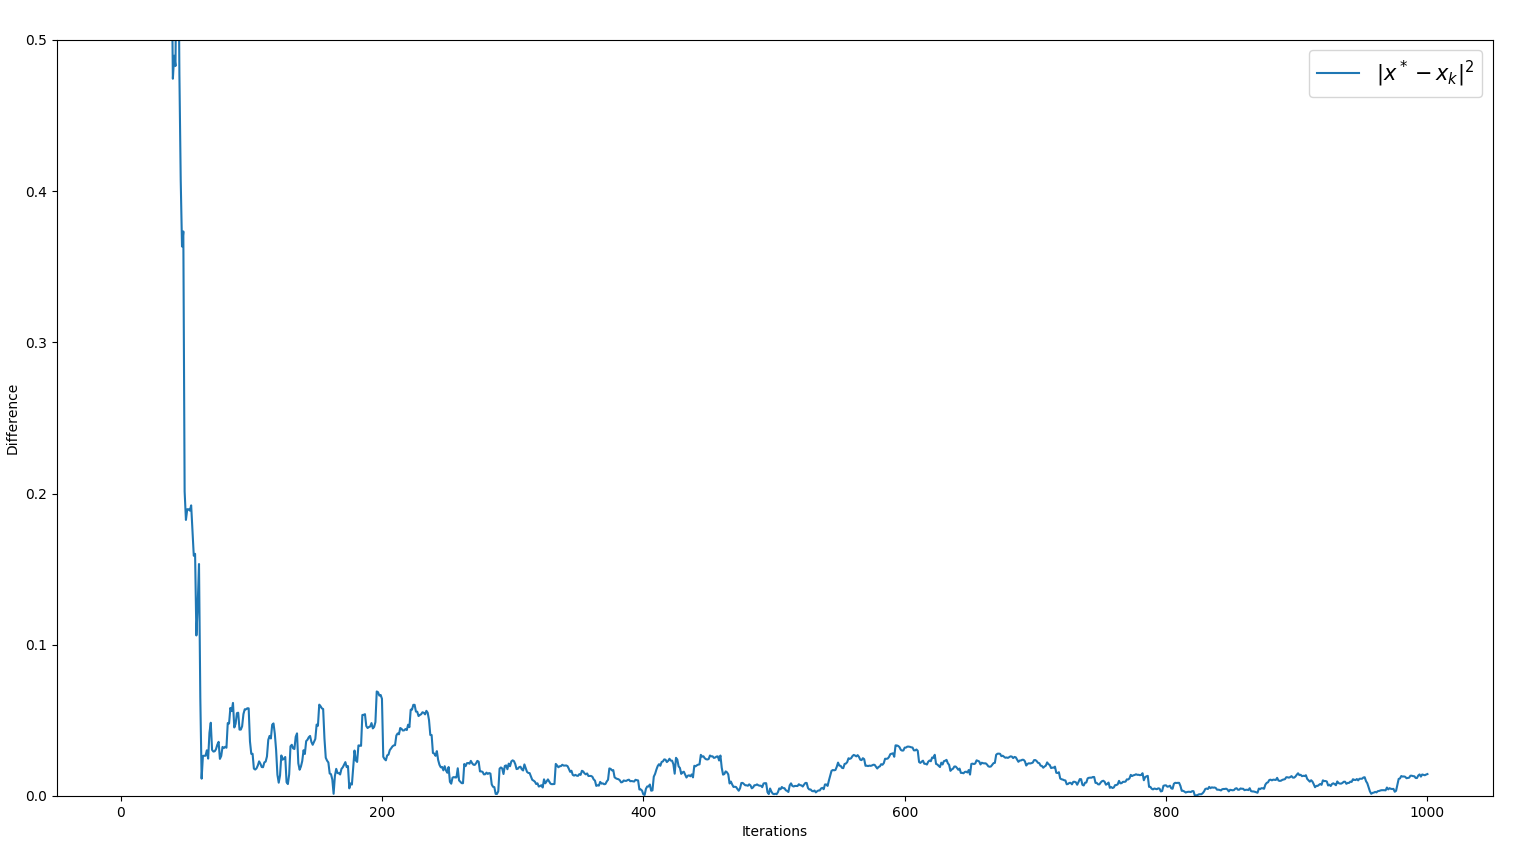
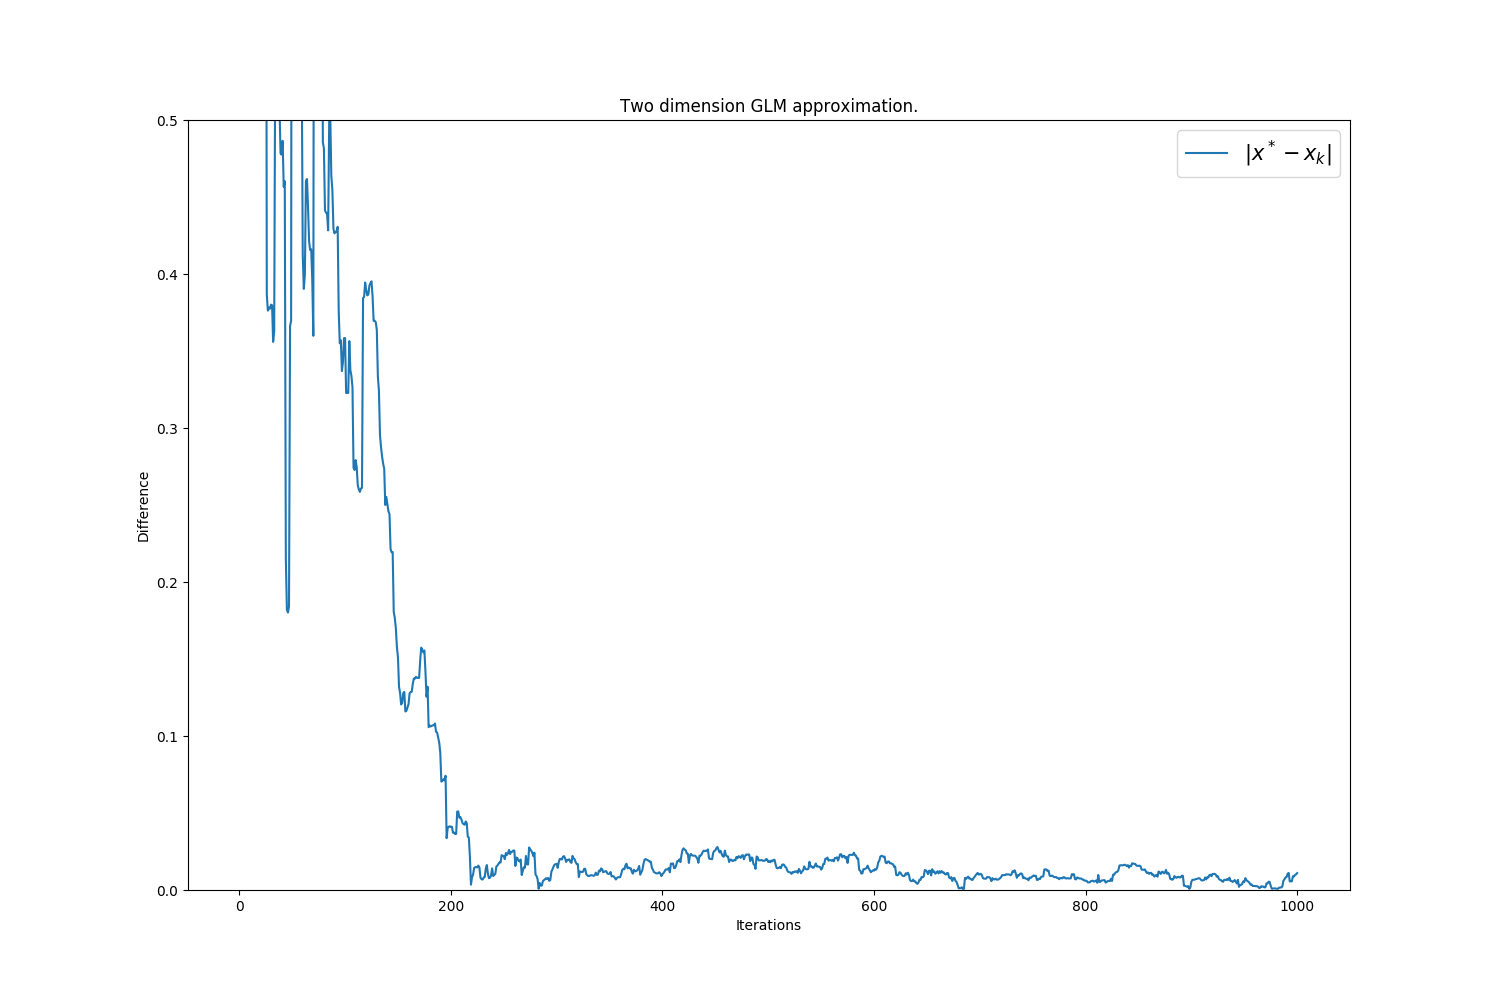
Added saving figure in methods. Added choosing from bounded eta's sample

diff --git a/methods/sa_method_multidim_ex.py b/methods/sa_method_multidim_ex.py
@@ -4,6 +4,7 @@ import numpy as np
 from scipy.stats import multivariate_normal
 from sa_method import sa_method
 import matplotlib.pyplot as plt
+import random
 params = {'legend.fontsize': 15,
           'legend.handlelength': 2,
           'figure.figsize': (15, 10)}
@@ -15,6 +16,7 @@ steps = 1000
 xs = np.arange(1, steps + 1)
 x0 = np.array([[0], [0]])
 mult_normal = multivariate_normal(mean=[0, 0], cov=[[1, 0], [0, 1]])
+eta_samples = mult_normal.rvs(size=100)
 
 n = 2
 m = 1
@@ -25,7 +27,7 @@ def f(x):
 
 
 def etas():
-    return mult_normal.rvs(size=1).reshape(n, m)
+    return random.choice(eta_samples).reshape(n, m)
 
 
 def ys(eta):
@@ -45,10 +47,12 @@ def proj(x):
 
 x_estim = sa_method(G, modulus_continuity, proj, steps, x0, etas, ys)
 x_diff = np.apply_along_axis(np.linalg.norm, 1, x_estim - x_asteriks)
-plt.plot(xs, x_diff, label=r'$|x^*-x_k|^2$')
+plt.plot(xs, x_diff, label=r'$|x^*-x_k|$')
 plt.legend(loc='best')
 plt.xlabel("Iterations")
 plt.ylabel("Difference")
 plt.ylim([0, 0.5])
+plt.title('Two dimension GLM approximation.')
 
+plt.savefig('../data/SAA-multidim.png')
 plt.show()

diff --git a/methods/sa_method_ex.py b/methods/sa_method_ex.py
@@ -4,12 +4,19 @@ import numpy as np
 from scipy.stats import norm
 from sa_method import sa_method
 import matplotlib.pyplot as plt
+import random
+
+params = {'legend.fontsize': 15,
+          'legend.handlelength': 2,
+          'figure.figsize': (15, 10)}
+plt.rcParams.update(params)
 
 x_asteriks = 1
 modulus_continuity = 1
 steps = 1000
 xs = np.arange(1, steps + 1)
 x0 = 0
+eta_samples = norm.rvs(size=100)
 
 
 def f(x):
@@ -17,7 +24,7 @@ def f(x):
 
 
 def etas():
-    return norm.rvs(size=1)[0]
+    return random.choice(eta_samples)
 
 
 def ys(eta):
@@ -34,6 +41,14 @@ def proj(x):
     return 2*(x / np.linalg.norm(x))
 
 
-plt.plot(xs, sa_method(G, modulus_continuity, proj, steps, x0, etas, ys))
+plt.plot(xs, np.abs(sa_method(G, modulus_continuity,
+                              proj, steps, x0, etas, ys) - x_asteriks), label=r'$|x^*-x_k|$')
 
+plt.legend(loc='best')
+plt.xlabel("Iterations")
+plt.ylabel("Difference")
+plt.ylim([0, 0.5])
+plt.title('One dimension GLM approximation.')
+
+plt.savefig('../data/SAA-onedim.png')
 plt.show()
